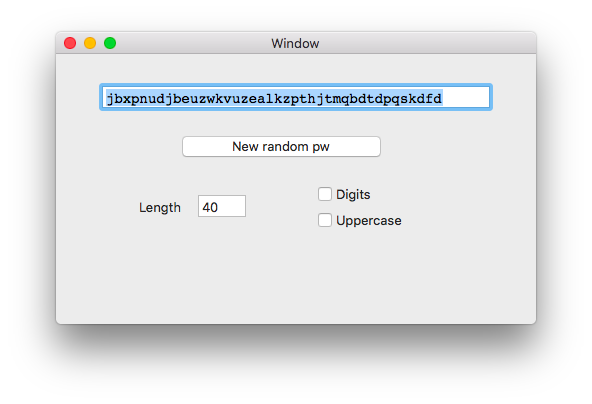
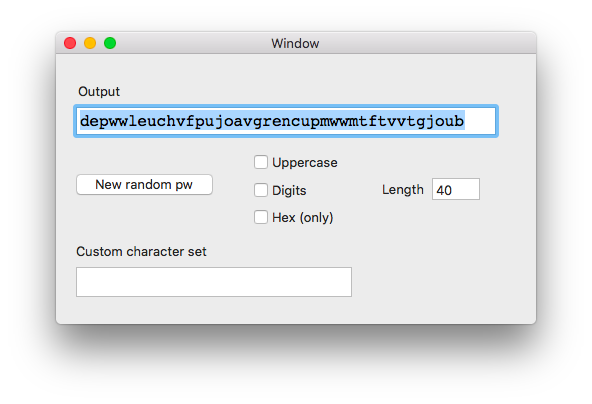
no message

diff --git a/RandomPW/MainWindowController.swift b/RandomPW/MainWindowController.swift
@@ -4,18 +4,39 @@ class MainWindowController: NSWindowController {
     
     @IBOutlet weak var digitsCheckbox: NSButton!
     @IBOutlet weak var ucCheckbox: NSButton!
+    @IBOutlet weak var hexCheckbox: NSButton!
+    
     @IBOutlet weak var lengthTextField: NSTextField!
     @IBOutlet weak var pwTextField: NSTextField!
+    @IBOutlet weak var characterTextField: NSTextField!
     
     override func windowDidLoad() {
         super.windowDidLoad()
         lengthTextField.doubleValue = 40
+        
+        ucCheckbox.state = NSControl.StateValue.off
+        digitsCheckbox.state = NSControl.StateValue.off
+        hexCheckbox.state = NSControl.StateValue.off
+        characterTextField.stringValue = ""
+    }
+    
+    @IBAction func hex_selected(sender: AnyObject) {
         ucCheckbox.state = NSControl.StateValue.off
         digitsCheckbox.state = NSControl.StateValue.off
     }
     
+    @IBAction func other_selected(sender: AnyObject) {
+        hexCheckbox.state = NSControl.StateValue.off
+    }
+    
+    @IBAction func charTFEdited(sender: AnyObject) {
+        // Swift.print("charTFEdited")
+        ucCheckbox.state = NSControl.StateValue.off
+        digitsCheckbox.state = NSControl.StateValue.off
+    }
+
     @IBAction func button_pushed(sender: AnyObject) {
-        Swift.print("MWC:  button_pushed")
+        Swift.print("MWC:  button pushed")
         let result: String = helperDoIt()
         Swift.print(result)
         pwTextField.stringValue = result

diff --git a/RandomPW/Helper.swift b/RandomPW/Helper.swift
@@ -10,18 +10,33 @@ func getRandomBytes(count: Int) -> [UInt8] {
     return buffer
 }
 
+func helperGetHex(_ n: Int = 16) -> String {
+    let sep: String = ""
+    let L: [UInt8] = getRandomBytes(count: n)
+    return L.map{ String(format: "%02x", $0) }.joined(separator: sep)
+}
+
 func helperDoIt() -> String {
+    let n: Int = mwc.lengthTextField.integerValue
+    
+    let hex: Bool = (mwc.hexCheckbox.state == NSControl.StateValue.on)
+    if hex { return helperGetHex(n/2) }
+    
     let useDigits: Bool = (mwc.digitsCheckbox.state == NSControl.StateValue.on)
     let useUC: Bool = (mwc.ucCheckbox.state == NSControl.StateValue.on)
     
     var s = "abcdefghijklmnopqrstuvwxyz"
     if useUC     { s += "ABCDEFGHIJKLMNOPQRSTUVWXYZ" }
     if useDigits { s += "0123456789" }
+    
+    let t = mwc.characterTextField.stringValue
+    Swift.print("t: \(t)")
+    if t.count != 0 { s = t }
+    
     let i = s.startIndex
     let m = UInt8(s.count)
-    
     var L: [Character] = []
-    let n: Int = mwc.lengthTextField.integerValue
+    
     for b in getRandomBytes(count: n) {
         let j = s.index(i, offsetBy: Int(b % m))
         L.append(s[j])

diff --git a/README.md b/README.md
@@ -2,13 +2,9 @@ This repository contains a simple app written in Swift4 using Xcode.
 
 #### RandomPW
 
-RandomPW uses a cryptographically secure source of random bytes 
+RandomPW uses a cryptographically secure source of random bytes `SecRandomCopyBytes` [ref](https://developer.apple.com/documentation/security/randomization_services) to generate a password from a collection of characters which by default is the lowercase letters
 
-```
-SecRandomCopyBytes
-```
-
-to generate a password from a collection of characters which by default is the lowercase letters but may also include digits and uppercase letters.
+The set may be modified to include include digits and uppercase letters, or even a custom collection.
 
 ![](screenshot.png)
 
